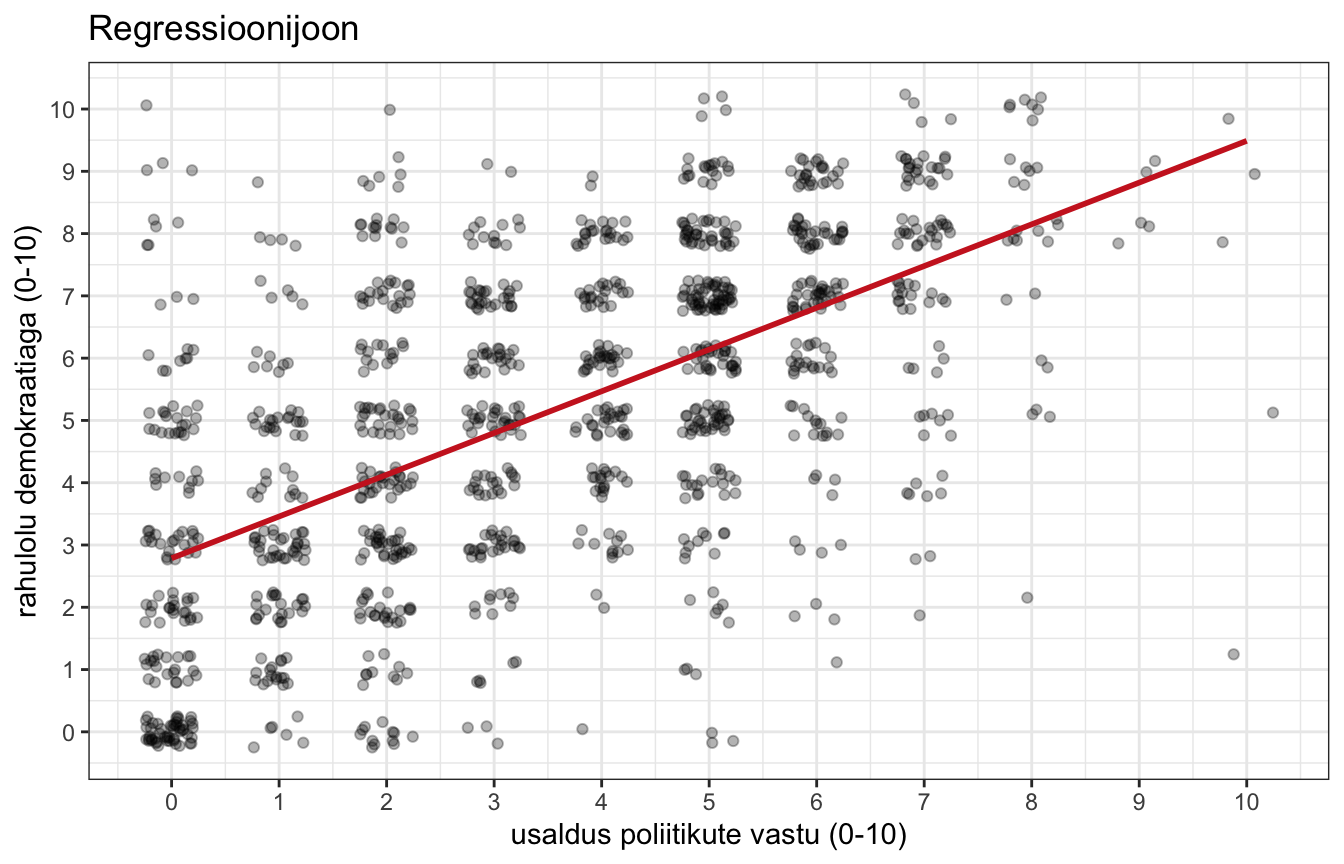
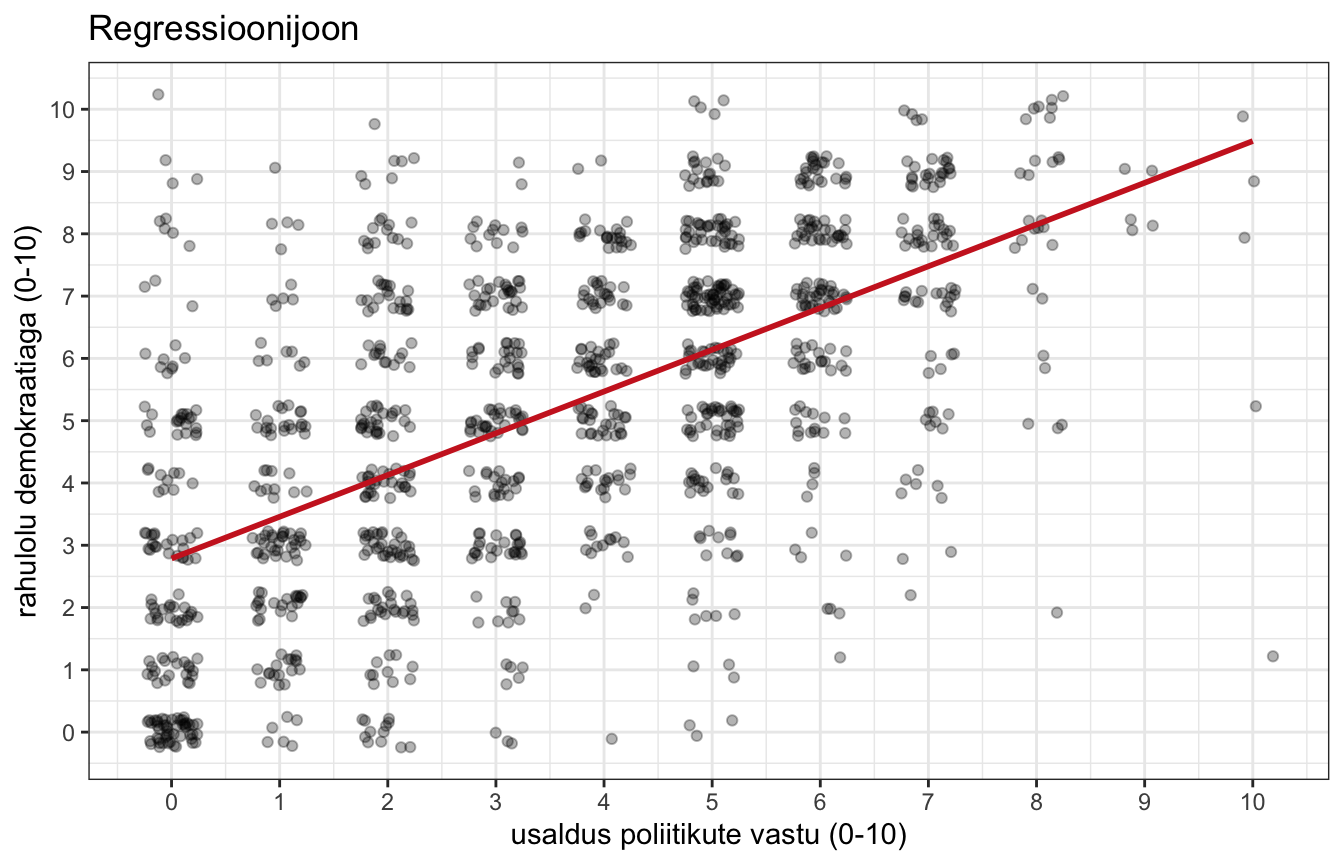
Eemalda koefitsientide standardiseerimine
Regressiooni peatükist (9) on standardiseerimise lõik välja võetud.
coef() seletus liikus peatükki 10, kus teda esimest korda koodis
kasutatakse; register vastavalt uuendatud. Peatüki 10 harjutus 1 ei
viita enam standardiseeritud koefitsientidele.

diff --git a/R/funktsioonide-register.md b/R/funktsioonide-register.md
@@ -119,14 +119,14 @@ Argumendid: `mu`, `df`, `var.equal`
 
 ## Praktikum 9 — Regressioon: baasmudel
 
-**[U]** `lm()` · `summary()` mudeli peal · `stat_smooth()` · `coef()` · `cbind()`
+**[U]** `lm()` · `summary()` mudeli peal · `stat_smooth()` · `cbind()`
 
 **Mõisted:** vabaliige · regressioonikordaja · jääk · kohandatud R-ruut ·
 mõõtmise kvaliteet
 
 ## Praktikum 10 — Mitmene regressioon
 
-**[U]** `predict()` · `nobs()` · `confint()`
+**[U]** `coef()` · `predict()` · `nobs()` · `confint()`
 
 Argument: `newdata`, `weights`
 
